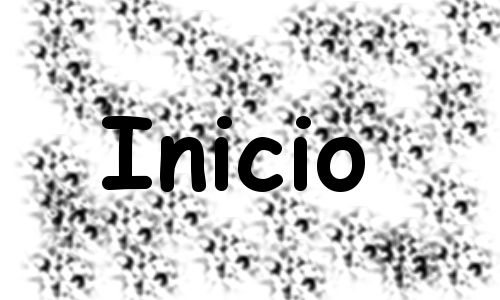
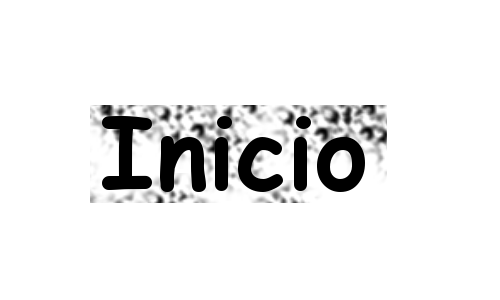
Home Alterações

diff --git a/home.html b/home.html
@@ -6,20 +6,27 @@
         <meta charset="UTF-8">
         <meta name="viewport" content="width=device-width, initial-scale=1.0">
     </head>
-    <body background="imagens/fundo.jpg">
+    <body background="imagens/fundo.png">
         <div>
+            <style> 
+             p{   
+            font-size: 54px;
+            COLOR:#ffffff;
+            font-family: arial;
+             }
+            </style>
+           
+            <p>Portal<img height=190 alt=logo src="imagens/logo.png" width=260 border=0 align="middle">
+            <a href="home.html"><img height=80 alt=icone1 src="imagens/incio.png" width=100></a>
+            <a href="tecnologias.html"><img height=80 alt=icone3 src="imagens/tecn.png" width=100></a>
+            <a href="paginaServico.html"><img height=80 alt=icone2 src="imagens/serv.png" width=100></a>
+            <a href="colaboradores.html"><img height=85 alt=icone4 src="imagens/colaboradores.png" width=100></a>
+            <a href="contato.html"><img height=80 alt=icone5 src="imagens/cont.png" width=100></a>
+            </p>
+         
             
-            <h1 style="text-align: middle"><font COLOR="#ffffff">Portal</font><img height=120 
-  alt=logo src="imagens/logo.png" width=200 border=0 align="middle"></h1>
-            
-            
-            <a href="home.html"><img height=30 
-  alt=logo src="imagens/incio.png" width=50 border=0 align="middle"></a>
-            <a href="paginaServico.html"></a>
-            <a href="tecnologias.html"></a>
-            <a href="colaboradores.html"></a>
-            <a href="contato.html"></a>
-            
+
+
         </div>
     </body>
 </html>
